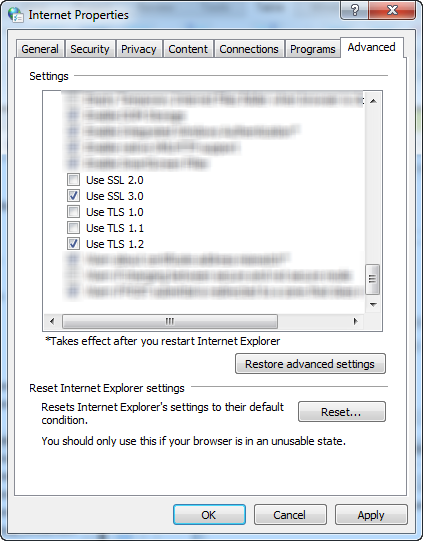
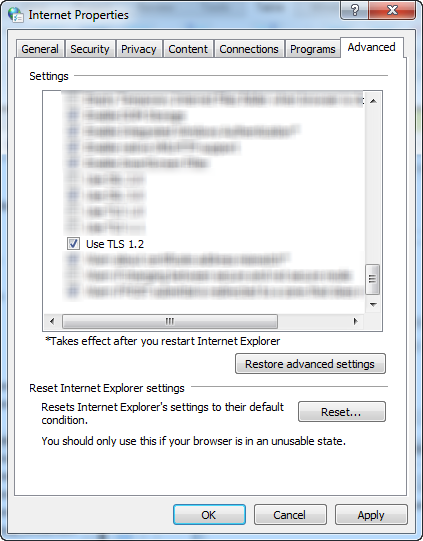
Remove verify Use SSL 3.0 is selected.

Changed region(s): [[0.1537, 0.2957, 0.3381, 0.4436]]

diff --git a/pages/SpotlightEnterprise/enterprise_interface_client_internetoptions.md b/pages/SpotlightEnterprise/enterprise_interface_client_internetoptions.md
@@ -12,7 +12,7 @@ On the computer hosting the Spotlight Client:
 
 1. Open the **Control Panel \| Internet Options**.
 2. Select the **Advanced** tab.
-3. Verify **Use SSL 3.0** is selected. Verify **Use TLS 1.2** is selected.
+3. Verify **Use TLS 1.2** is selected.
 
 {% include imageClient.html file="pane_windows_internetproperties_ssltls.png" alt="Internet Options" %}
 
